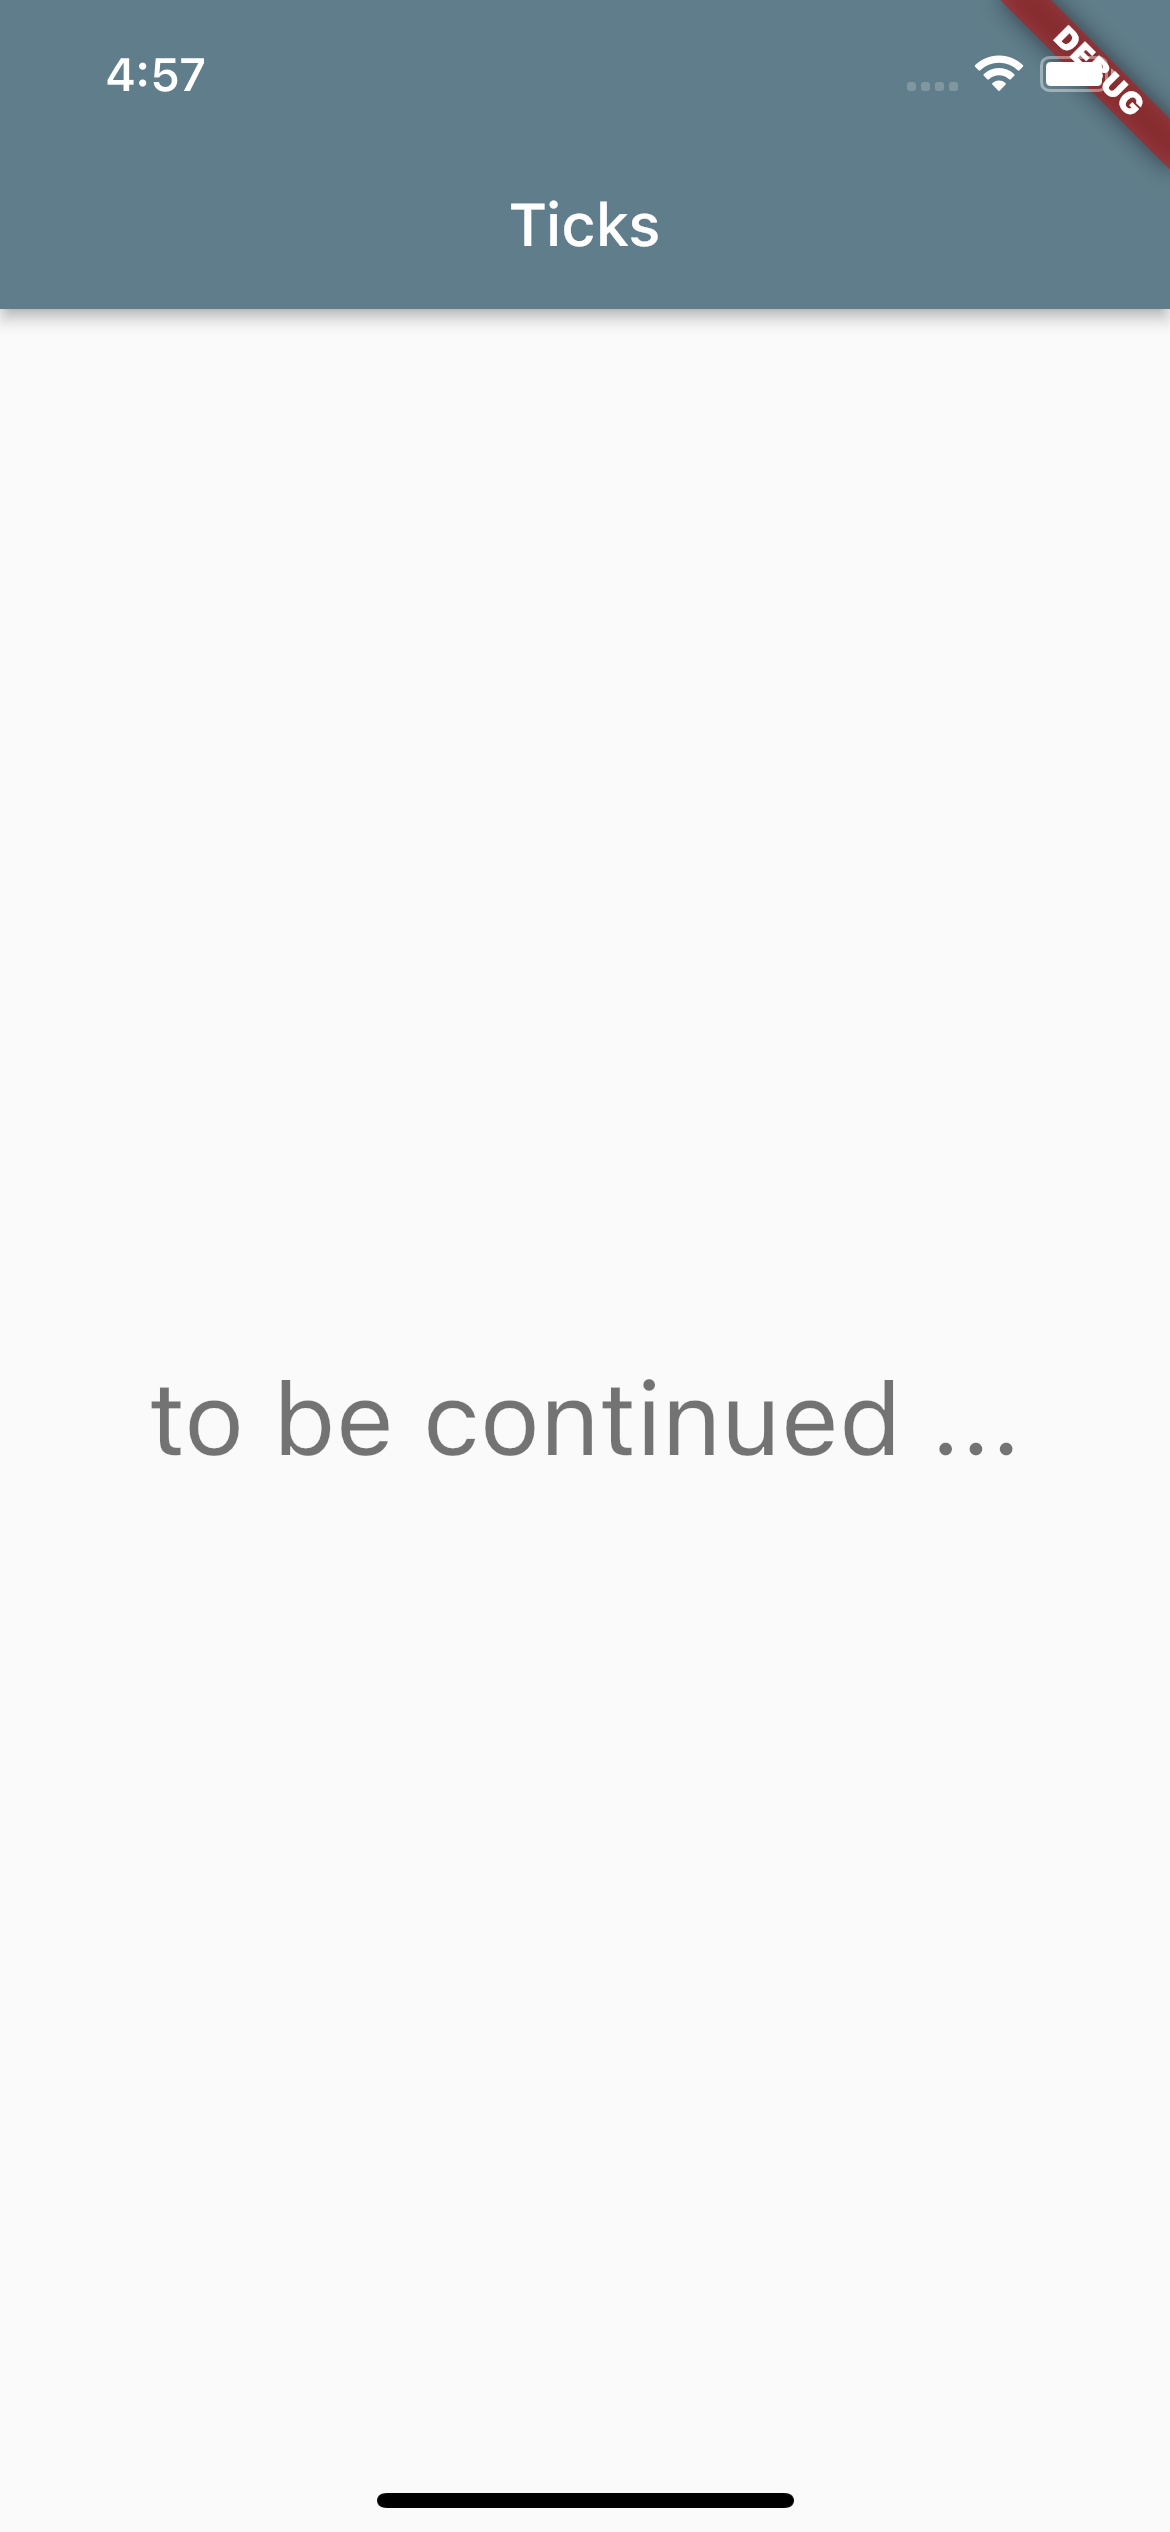
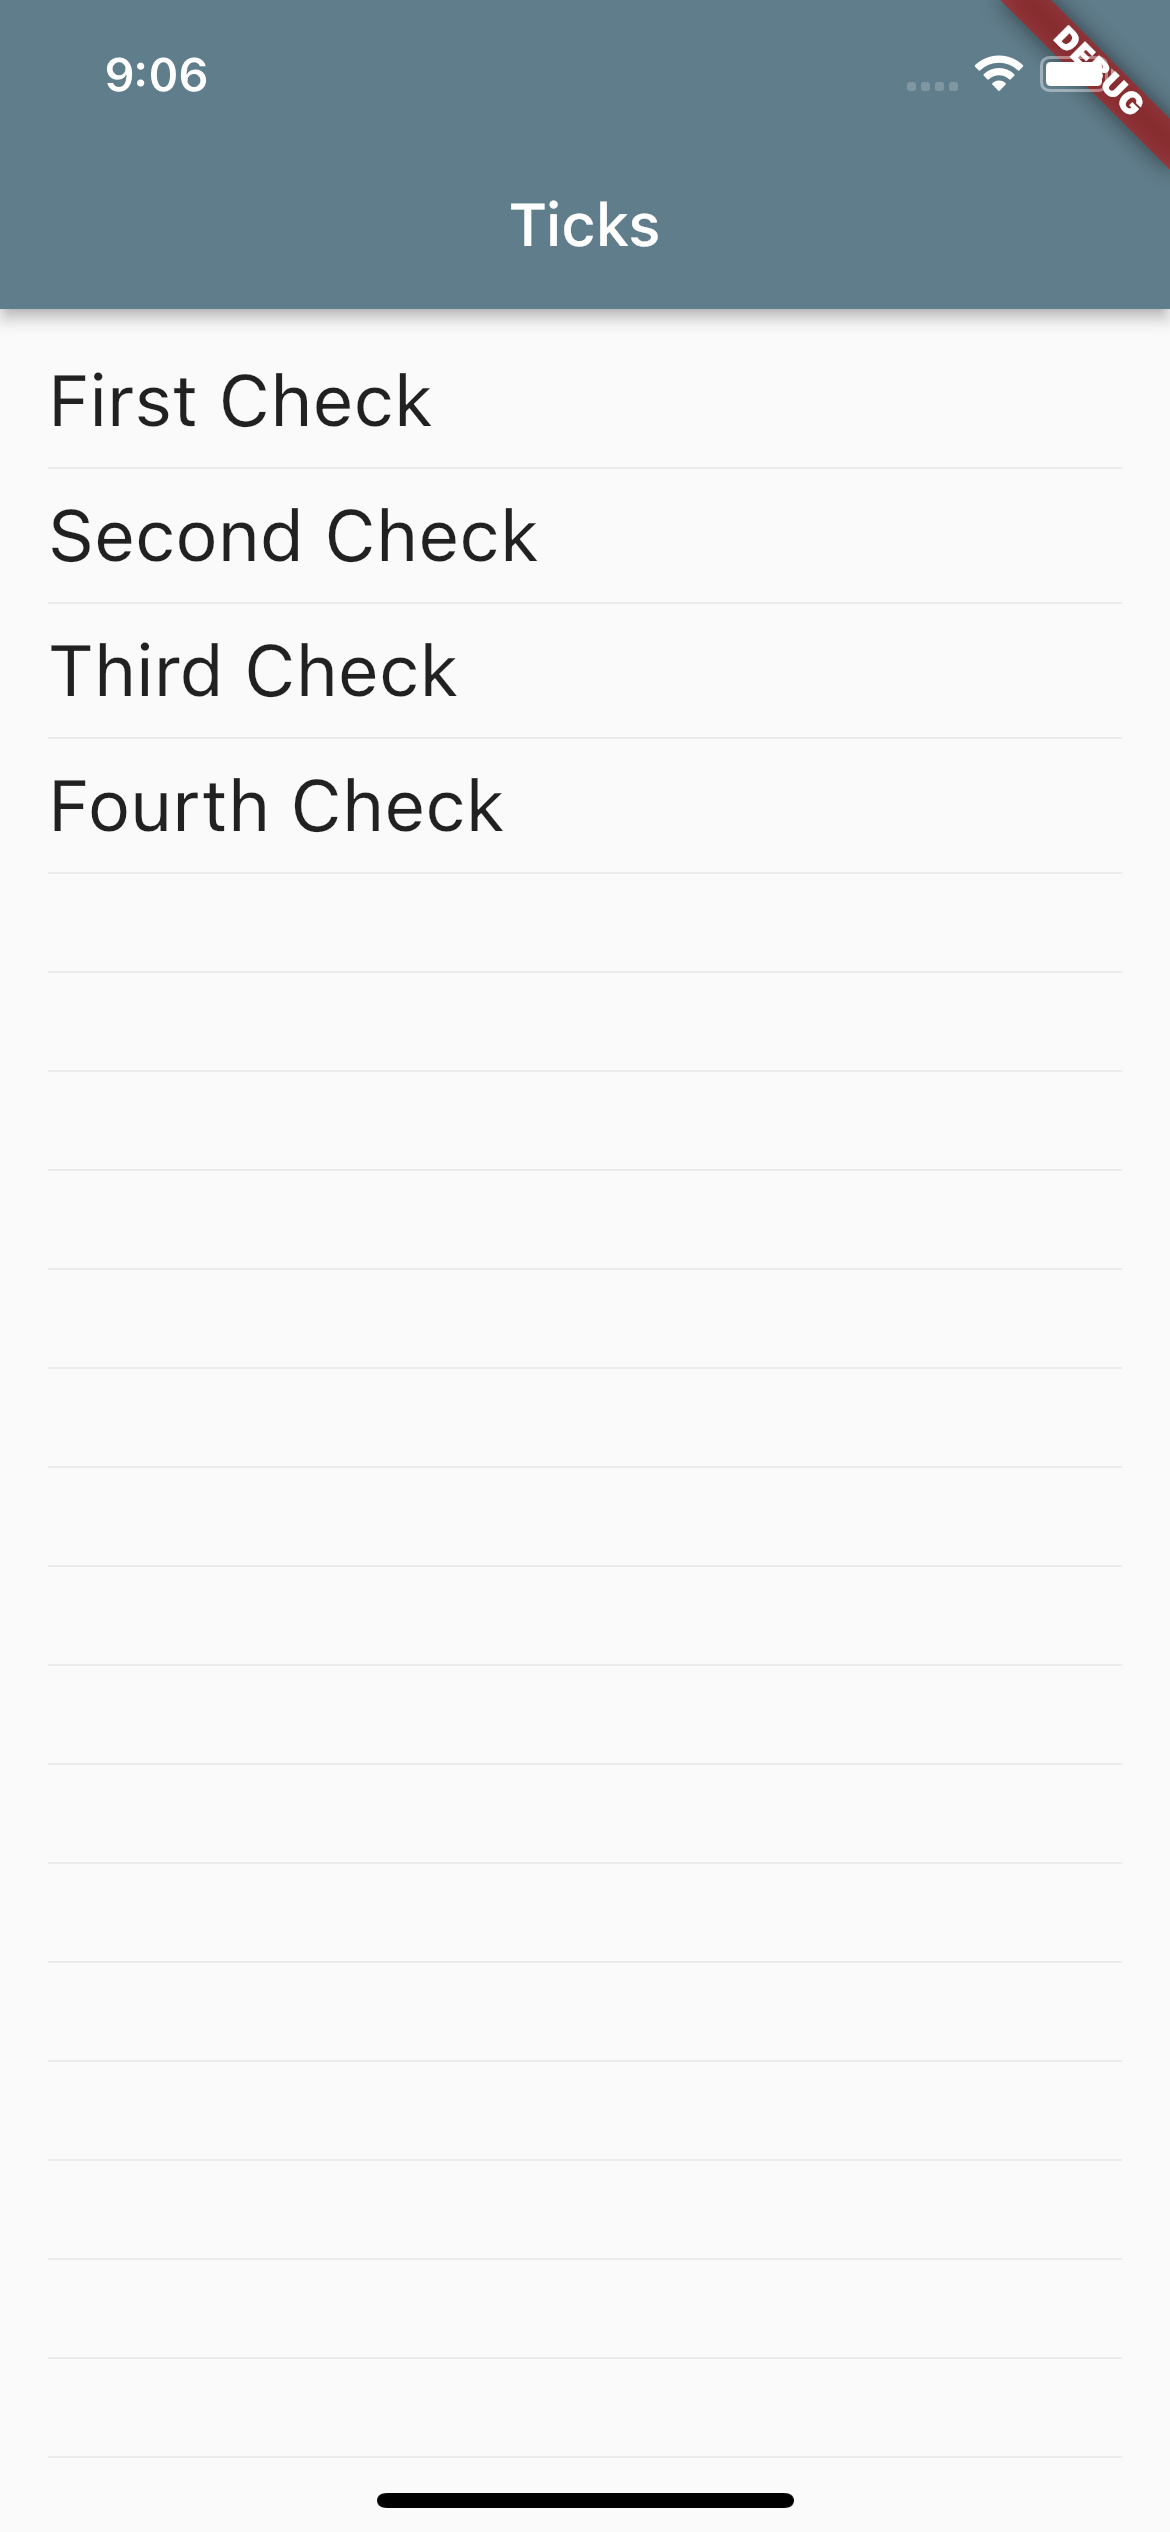
starting checlist model and some display

diff --git a/lib/checklist/widgets.dart b/lib/checklist/widgets.dart
@@ -1,0 +1,44 @@
+import 'package:flutter/material.dart';
+import 'package:ticks/checklist/provider.dart';
+import 'check.dart';
+import 'checklist.dart';
+
+class CheckList extends StatefulWidget {
+  const CheckList({Key? key}) : super(key: key);
+
+  @override
+  State<CheckList> createState() => _CheckListState();
+}
+
+class _CheckListState extends State<CheckList> {
+  final Checklist checklist = SampleChecklistProvider().get('test');
+
+  @override
+  Widget build(BuildContext context) {
+    return ListView.builder(
+      padding: const EdgeInsets.all(16.0),
+      itemBuilder: (context, i) {
+        if (i.isOdd && i < checklist.checks.length * 2) { return const Divider(); }
+
+        final int index = i ~/2;
+
+        if (index < checklist.checks.length) {
+          Check check = checklist.checks[index];
+          return Text(check.label, style: Theme.of(context).textTheme.headline5);
+        }
+
+        return Container();
+      }
+    );
+  }
+}
+
+
+class SimpleCheck extends StatelessWidget {
+  const SimpleCheck({Key? key}) : super(key: key);
+
+  @override
+  Widget build(BuildContext context) {
+    return Container();
+  }
+}

diff --git a/lib/checklist/mapbuilders.dart b/lib/checklist/mapbuilders.dart
@@ -1,0 +1,40 @@
+import 'check.dart';
+import 'checklist.dart';
+
+class MapChecklistBuilder extends ChecklistBuilder {
+  final Map data;
+
+  MapChecklistBuilder({required this.data});
+
+  @override
+  Checklist build() {
+    id = data['id'].toString();
+    checks = data.containsKey('checks')
+        ? _makeChecks(data['checks'])
+        : <Check>[];
+
+    return Checklist(this);
+  }
+
+  List<Check> _makeChecks(List<dynamic> list) {
+    List<Check> results = <Check>[];
+    for(Map data in list) {
+      results.add(MapSimpleCheckBuilder(data: data).build());
+    }
+    return results;
+  }
+}
+
+class MapSimpleCheckBuilder extends SimpleCheckBuilder {
+  final Map data;
+
+  MapSimpleCheckBuilder({required this.data});
+
+  @override
+  SimpleCheck build() {
+    id = data['id'];
+    label = data['name'];
+    checked = false;
+    return SimpleCheck(this);
+  }
+}

diff --git a/lib/checklist/provider.dart b/lib/checklist/provider.dart
@@ -1,0 +1,25 @@
+import 'dart:convert';
+import 'package:ticks/checklist/checklist.dart';
+import 'package:ticks/checklist/mapbuilders.dart';
+
+abstract class ChecklistProvider {
+  Checklist get(String id);
+}
+
+class SampleChecklistProvider extends ChecklistProvider {
+  @override
+  Checklist get(String id) {
+    String data = '''
+    {
+      "id" : "35abdd55-bb69-4f90-ba43-3c78d615f184",
+      "checks" : [
+        { "id" : "a6087a1e-b73a-41b9-a3ae-f0c0f15dbb1c", "name": "First Check" },
+        { "id" : "de30b788-2179-4682-bd46-839971c2aaef", "name": "Second Check" },
+        { "id" : "56904b8e-4e8d-45f9-b139-e4fd4802984e", "name": "Third Check" },
+        { "id" : "98e19e07-5ae0-4ef0-a4f9-fa949bcc09e9", "name": "Fourth Check" }
+      ]
+    }
+    ''';
+    return MapChecklistBuilder(data: jsonDecode(data)).build();
+  }
+}

diff --git a/lib/checklist/check.dart b/lib/checklist/check.dart
@@ -1,0 +1,33 @@
+abstract class Check {
+  final String id;
+  final String label;
+
+  Check(CheckBuilder builder) :
+      id = builder.id,
+      label = builder.label;
+
+  bool isComplete();
+}
+
+abstract class CheckBuilder {
+  late String id;
+  late String label;
+
+  Check build();
+}
+
+class SimpleCheck extends Check {
+  final checked;
+
+  SimpleCheck(SimpleCheckBuilder builder) :
+      checked = builder.checked,
+      super(builder);
+
+   bool isComplete() => checked;
+}
+
+abstract class SimpleCheckBuilder extends CheckBuilder {
+  late bool checked;
+
+  SimpleCheck build();
+}

diff --git a/lib/main.dart b/lib/main.dart
@@ -1,4 +1,5 @@
 import 'package:flutter/material.dart';
+import 'checklist/widgets.dart';
 
 void main() {
   runApp(const MyApp());
@@ -35,8 +36,8 @@ class _MyHomePageState extends State<MyHomePage> {
       appBar: AppBar(
         title: Text(widget.title),
       ),
-      body: Center(
-          child: Text('to be continued ...', style: Theme.of(context).textTheme.headline4)
+      body: const Center(
+          child: CheckList()
       ),
     );
   }

diff --git a/lib/checklist/checklist.dart b/lib/checklist/checklist.dart
@@ -1,0 +1,17 @@
+import 'check.dart';
+
+class Checklist {
+  final String id;
+  final List<Check> checks;
+
+  Checklist(ChecklistBuilder builder) :
+      id = builder.id,
+      checks = builder.checks;
+}
+
+abstract class ChecklistBuilder {
+  late String id;
+  late List<Check> checks;
+
+  Checklist build();
+}

diff --git a/README.md b/README.md
@@ -22,8 +22,22 @@ Additionally, it should integrate with all other three project mentioned above. 
 
 
 &nbsp;
-## The result
-So far it looks as unimpressive as this:
+## The results so far
+
+From JSON representation of checks:
+
+```javascript
+{
+      "id" : "35abdd55-bb69-4f90-ba43-3c78d615f184",
+      "checks" : [
+        { "id" : "a6087a1e-b73a-41b9-a3ae-f0c0f15dbb1c", "name": "First Check" },
+        { "id" : "de30b788-2179-4682-bd46-839971c2aaef", "name": "Second Check" },
+        { "id" : "56904b8e-4e8d-45f9-b139-e4fd4802984e", "name": "Third Check" },
+        { "id" : "98e19e07-5ae0-4ef0-a4f9-fa949bcc09e9", "name": "Fourth Check" }
+      ]
+    }
+```
+
+I can render this  unimpressive checklist:
 
 ![](./docs/images/first.png)
-So far it looks as unimpresive as this: 
